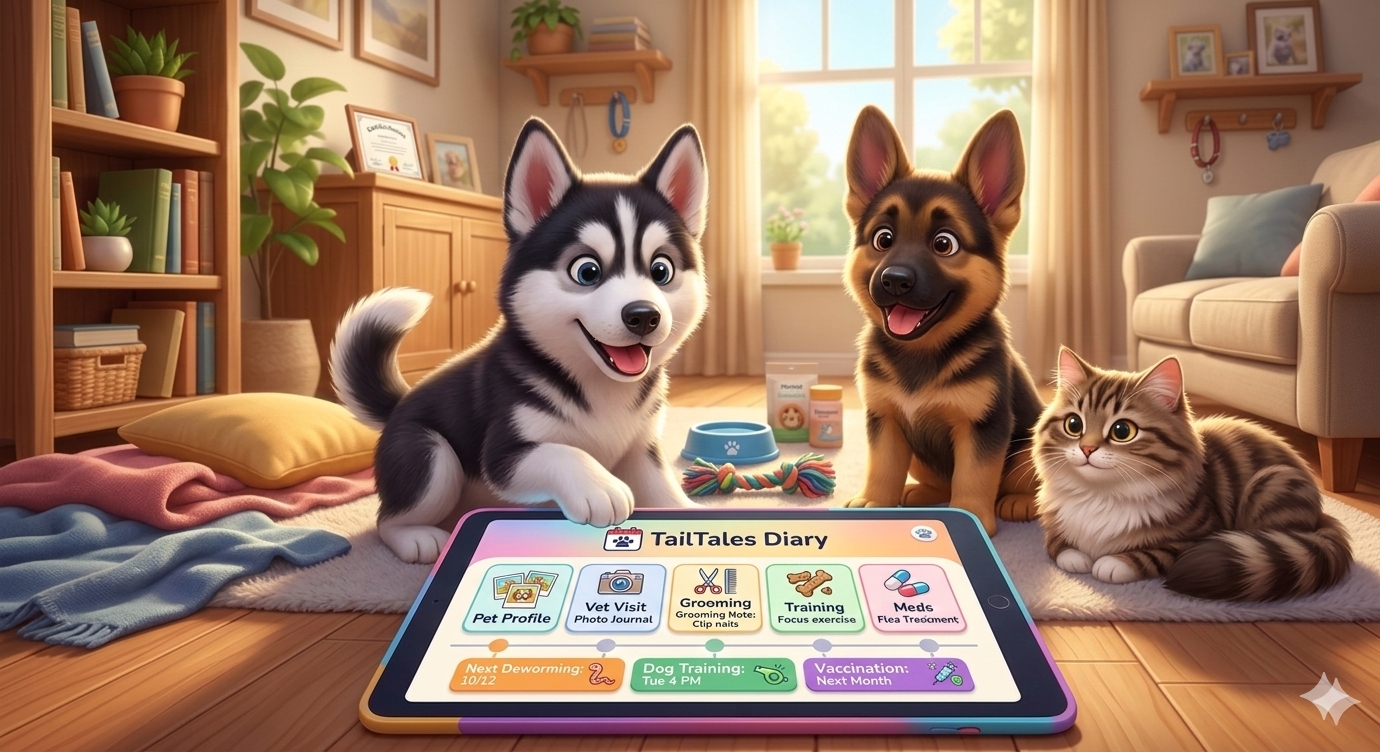
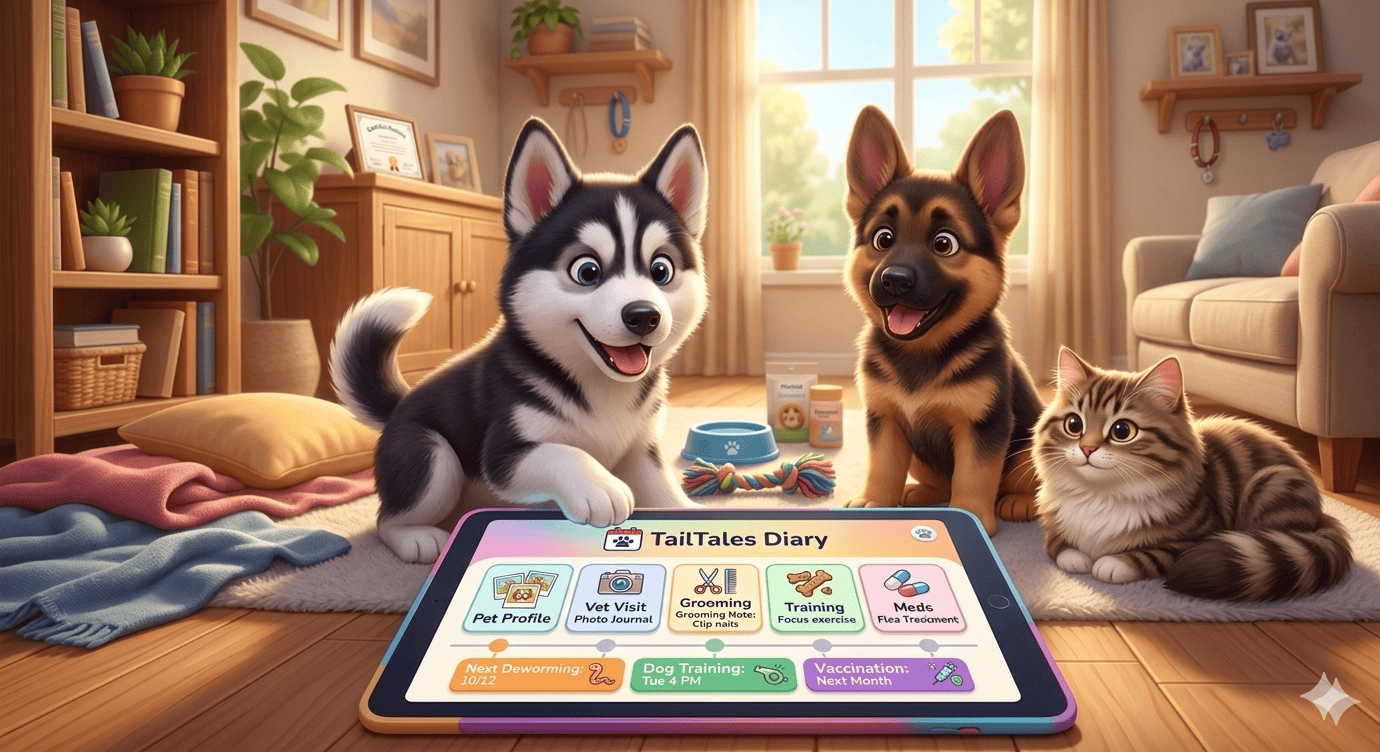
Images

diff --git a/static/css/style.css b/static/css/style.css
@@ -92,80 +92,18 @@ button.secondary-btn:hover {
     box-shadow: 0 7px 16px rgba(85, 55, 30, 0.14);
 }
 
-/* ============================
-   NOTIFICATION
-============================ */
-.notification {
-    position: fixed;
-    top: -100px;
-    right: 20px;
-    padding: 40px;
-    font-size: 1rem;
-    font-weight: bold;
-    color: black;
-    background-color: #e2bc90 !important;
-    border-radius: 12px;
-    box-shadow: 0 4px 12px rgba(0, 0, 0, 0.25);
-    opacity: 0;
-    z-index: 9999;
-    transition: top 0.5s ease, opacity 0.5s ease;
+.contacts-title-wrap {
+    display: flex;
+    justify-content: center;
 }
 
-.notification.show {
-    top: 20px;
-    opacity: 1;
+.contacts-title-image {
+    display: block;
+    width: 100%;
+    max-width: 420px;
+    height: auto;
 }
 
-.notification.hide {
-    top: -100px;
-    opacity: 0;
-}
-
-/* ============================
-   CUSTOM CONFIRM MODAL
-============================ */
-/*.custom-confirm {*/
-/*    position: fixed;*/
-/*    inset: 0;*/
-/*    width: 100%;*/
-/*    height: 100%;*/
-/*    background: rgba(0, 0, 0, 0.4);*/
-/*    display: flex;*/
-/*    align-items: center;*/
-/*    justify-content: center;*/
-/*    opacity: 0;*/
-/*    pointer-events: none;*/
-/*    transition: opacity 0.3s ease;*/
-/*    z-index: 9998;*/
-/*}*/
-
-/*.custom-confirm.show {*/
-/*    opacity: 1;*/
-/*    pointer-events: auto;*/
-/*}*/
-
-/*.confirm-content {*/
-/*    background: linear-gradient(135deg, #dfdad0, rgb(149, 183, 199));*/
-/*    padding: 20px 25px;*/
-/*    border-radius: 12px;*/
-/*    box-shadow: 0 6px 15px rgba(0, 0, 0, 0.3);*/
-/*    max-width: 400px;*/
-/*    width: 90%;*/
-/*    text-align: center;*/
-/*}*/
-
-/*.confirm-content p {*/
-/*    margin-bottom: 20px;*/
-/*    font-size: 1rem;*/
-/*    font-weight: bold;*/
-/*    color: #1b3e7d;*/
-/*}*/
-
-/*.confirm-buttons {*/
-/*    display: flex;*/
-/*    justify-content: center;*/
-/*    gap: 15px;*/
-/*}*/
 
 /*SECTION INTRO*/
 .section-intro {
@@ -228,7 +166,7 @@ header .header-left h1 {
     margin: 0;
     text-shadow: 2px 2px 4px rgba(0, 0, 0, 0.55);
     letter-spacing: 1px;
-    color: antiquewhite;
+    color:white;
     line-height: 1;
 }
 
@@ -271,17 +209,6 @@ header .header-left h1 {
     justify-content: flex-end;
 }
 
-/*.auth-links {*/
-/*    display: flex;*/
-/*    gap: 0.6rem;*/
-/*    align-items: center;*/
-/*    flex-wrap: wrap;*/
-/*    justify-content: flex-end;*/
-/*}*/
-
-/*header.header-wrapper.hidden {*/
-/*    transform: translateY(-100%);*/
-/*}*/
 /* ============================
    MAIN WRAPPER & BACKGROUND
 ============================ */

diff --git a/static/css/pages/contacts.css b/static/css/pages/contacts.css
@@ -7,7 +7,7 @@
     padding: 28px 22px;
     border-radius: 16px;
     border: 1px solid rgba(0, 0, 0, 0.12);
-    background: linear-gradient(135deg, #dfdad0, rgb(149, 183, 199));
+    background: linear-gradient(180deg, #fffaf3 0%, #f7e6d3 55%, #f3dcc6 100%);
 }
 
 .contact-list-card h1 {
@@ -15,6 +15,7 @@
     margin: 0 0 18px 0;
     color: darkslateblue;
 }
+
 
 .contact-list-actions {
     display: flex;
@@ -32,27 +33,38 @@
 .my-contact-card {
     background: rgba(255, 255, 255, 0.47);
     border-radius: 14px;
-    padding: 1rem;
+    padding: 1.1rem 1rem;
     text-align: center;
     box-shadow: 0 2px 8px rgba(0, 0, 0, 0.08);
+    display: flex;
+    flex-direction: column;
+    min-height: 220px;
 }
 
 .my-contact-card h3 {
     margin: 0.5rem 0 0.75rem 0;
     color: rgba(211, 81, 0, 0.92);
     font-size: 1.5rem;
+    line-height: 1.25;
+    min-height: 3.2rem;
 }
 
 .my-contact-card p {
     margin: 0 0 0.75rem 0;
     font-size: 1.05rem;
     word-break: break-word;
+    line-height: 1.45;
 }
 
 .my-contact-card-actions {
     display: flex;
     justify-content: center;
-    margin-top: 1rem;
+    margin-top: auto;
+    padding-top: 0.8rem;
+}
+
+.my-contact-card-actions .secondary-btn {
+    min-width: 140px;
 }
 
 @media (max-width: 900px) {
@@ -67,6 +79,10 @@
         margin-bottom: 16px;
     }
 
+    .contacts-title-image {
+        max-width: 360px;
+    }
+
     .contact-list-actions {
         margin-bottom: 1.5rem;
     }
@@ -77,7 +93,8 @@
     }
 
     .my-contact-card {
-        padding: 0.95rem;
+        padding: 1rem;
+        min-height: 210px;
     }
 
     .my-contact-card h3 {
@@ -101,6 +118,10 @@
         margin-bottom: 14px;
     }
 
+    .contacts-title-image {
+        max-width: 300px;
+    }
+
     .contact-list-actions,
     .my-contact-card-actions {
         width: 100%;
@@ -119,12 +140,14 @@
     }
 
     .my-contact-card {
-        padding: 0.9rem 0.8rem;
+        padding: 0.95rem 0.85rem;
+        min-height: auto;
     }
 
     .my-contact-card h3 {
         font-size: 1.2rem;
         margin: 0.35rem 0 0.65rem 0;
+        min-height: auto;
     }
 
     .my-contact-card p {

diff --git a/templates/care/preventivecare-list.html b/templates/care/preventivecare-list.html
@@ -1,11 +1,15 @@
 {% extends 'base.html' %}
+{% load static %}
 
 {% block title %}Preventive Care{% endblock %}
 
 {% block content %}
     <section class="form-section">
         <div class="contact-list-card">
-            <h1>Preventive Care</h1>
+            <div class="contacts-title-wrap">
+                <img src="{% static 'images/my-care.png' %}" alt="My Service Contacts"
+                     class="contacts-title-image">
+            </div>
             <p class="section-intro">
                 Track flea, tick, worming, and other routine care in one place.<span class="animation-span">💊</span><br>
                 Just record each new dose, and the next due date updates automatically so nothing sneaks up on you.

diff --git a/templates/contacts/contact-list.html b/templates/contacts/contact-list.html
@@ -1,11 +1,15 @@
 {% extends 'base.html' %}
+{% load static %}
 
 {% block title %}My Contacts{% endblock %}
 
 {% block content %}
     <section class="form-section">
         <div class="contact-list-card">
-            <h1>My Service Contacts</h1>
+            <div class="contacts-title-wrap">
+                <img src="{% static 'images/contacts-title.png' %}" alt="My Service Contacts"
+                     class="contacts-title-image">
+            </div>
             <p class="section-intro">
                 Keep your trusted vets, groomers, trainers, and other pet service contacts neatly organised and easy to
                 reach.

diff --git a/templates/care/appointment-list.html b/templates/care/appointment-list.html
@@ -1,11 +1,15 @@
 {% extends 'base.html' %}
+{% load static %}
 
 {% block title %}Appointments{% endblock %}
 
 {% block content %}
     <section class="form-section">
         <div class="contact-list-card">
-            <h1>Appointments</h1>
+            <div class="contacts-title-wrap">
+                <img src="{% static 'images/my-appoitments.png' %}" alt="My Service Contacts"
+                     class="contacts-title-image">
+            </div>
             <p class="section-intro">
                 Keep track of upcoming visits and completed tasks, with simple reminders to help you spot what is coming
                 up next.

diff --git a/templates/pets/pet-list.html b/templates/pets/pet-list.html
@@ -1,11 +1,15 @@
 {% extends 'base.html' %}
+{% load static %}
 
 {% block title %}My Pets{% endblock %}
 
 {% block content %}
     <section class="form-section">
         <div class="pet-list-card">
-            <h1>My Pets</h1>
+            <div class="contacts-title-wrap">
+                <img src="{% static 'images/my-pets.png' %}" alt="My Service Contacts"
+                     class="contacts-title-image">
+            </div>
             <p class="section-intro">
                 Add, edit, and view your pets in one place, so their everyday details are always easy to find.
             </p>

diff --git a/templates/pets/pet-gallery.html b/templates/pets/pet-gallery.html
@@ -6,7 +6,10 @@
 {% block content %}
     <section class="form-section">
         <div class="form-card">
-            <h1>Pet Gallery</h1>
+            <div class="contacts-title-wrap">
+                <img src="{% static 'images/my-gallery.png' %}" alt="My Service Contacts"
+                     class="contacts-title-image">
+            </div>
 
             <form method="get" class="gallery-sort-form">
                 <div class="sort-filter-group">

diff --git a/static/css/pages/pets.css b/static/css/pages/pets.css
@@ -17,6 +17,7 @@
 }
 
 
+
 /* ============================
    MY PETS LIST
 ============================ */
@@ -26,7 +27,7 @@
     padding: 28px 22px;
     border-radius: 16px;
     border: 1px solid rgba(0, 0, 0, 0.12);
-    background: linear-gradient(135deg, #dfdad0, rgb(149, 183, 199));
+    background: linear-gradient(180deg, #fffaf3 0%, #f7e6d3 55%, #f3dcc6 100%);
 }
 
 .pet-list-card h1 {

diff --git a/static/css/pages/about.css b/static/css/pages/about.css
@@ -11,8 +11,10 @@
 }
 
 .about-wrapper h1 {
+    font-family: 'Alex Brush', cursive;
+    font-weight: 400;
     margin-bottom: 20px;
-    font-size: 2.26rem;
+    font-size: 3rem;
     text-align: center;
 }
 

diff --git a/static/css/pages/dashboard.css b/static/css/pages/dashboard.css
@@ -1,7 +1,7 @@
 .dashboard-hero {
     display: grid;
     grid-template-columns: 1fr 1fr;
-    min-height: calc(100vh - 130px);
+    min-height: calc(100vh - 110px);
 }
 
 .dashboard-hero-content {
